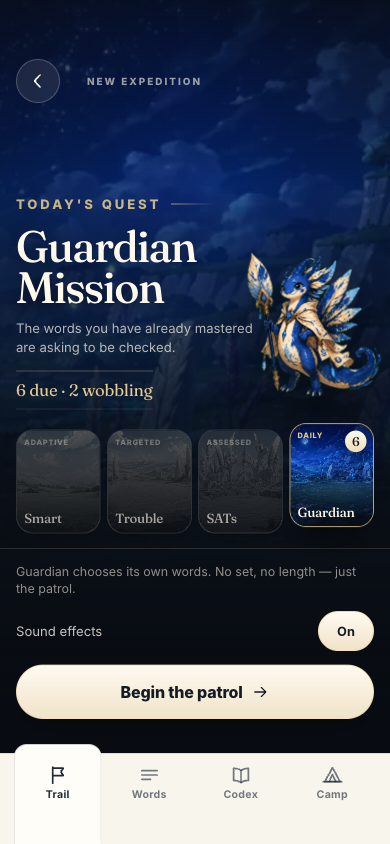
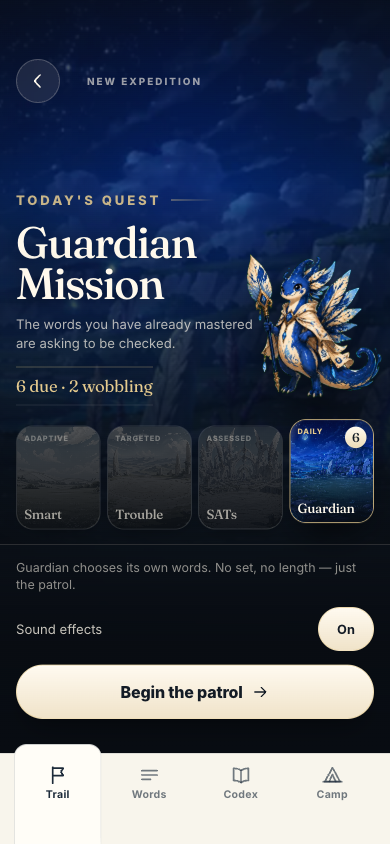
fix(a11y): every pill clears the 44px floor
The word-bank filter pills sat at 36px and the base pill at 40px — the two
smallest targets in an app for eight-year-old hands. The base pill rises to
2.75rem and the filter override loses its min-height entirely, so every
pill now inherits the same floor the buttons stand on. A small source-pin
suite keeps the floor honest for pills and the shared button metric block
alike. The four-viewport captures show the trays and filters wearing the
raise without clipping the setup hero on short phones.

Claude-Session: https://claude.ai/code/session_01Pb4iTb7VX5UBDno5PXtdDx

diff --git a/src/app/app.css b/src/app/app.css
@@ -254,7 +254,7 @@ select {
 
 .pill {
   display: inline-flex;
-  min-height: 2.5rem;
+  min-height: 2.75rem;
   align-items: center;
   gap: 0.45rem;
   padding: 0 0.85rem;
@@ -699,7 +699,6 @@ select {
 }
 
 .bank-filters .pill {
-  min-height: 2.25rem;
   font-size: 0.75rem;
 }
 
